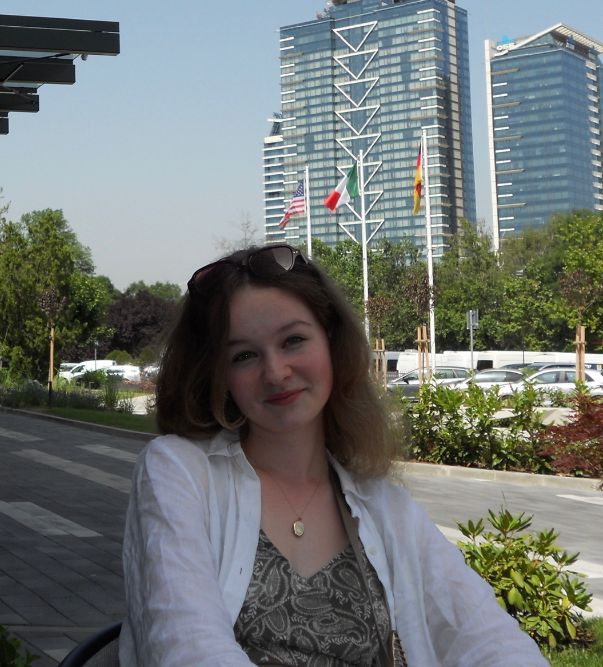
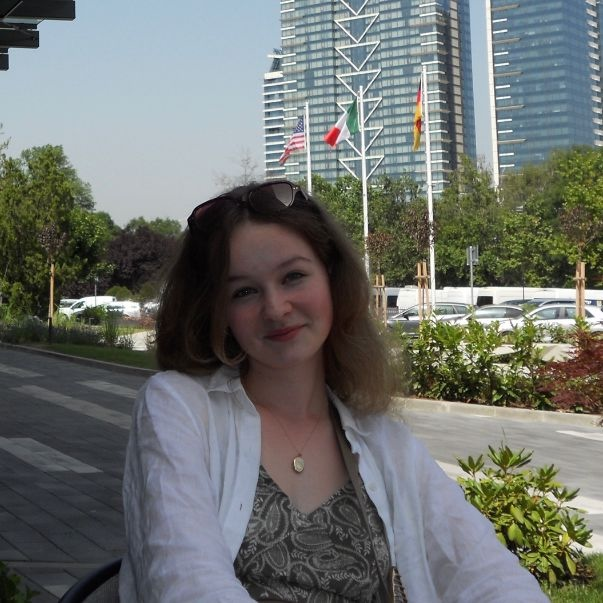
issues with pictures

diff --git a/content/committee/_index.md b/content/committee/_index.md
@@ -29,4 +29,4 @@ team:
     <img src="committee-photos/naseem-veevers.jpeg" alt="Naseem Veevers" class="grid-w50 md:grid-w33 xl:grid-w25">
 {{< /gallery >}} -->
 
-{{< profileCard src="profile-photos/sammy-webb.png" name="Sammy" surname="Webb" role="Treasurer" >}}
+{{< profileCard src="committee-photos/akbar-latif.jpeg" name="Sammy" surname="Webb" role="Treasurer" >}}
